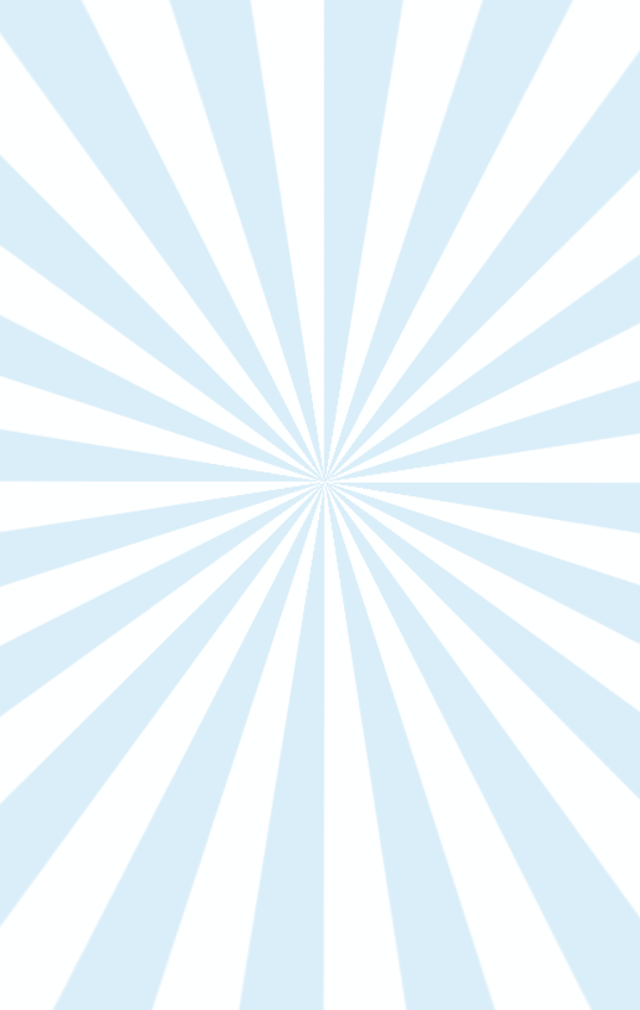
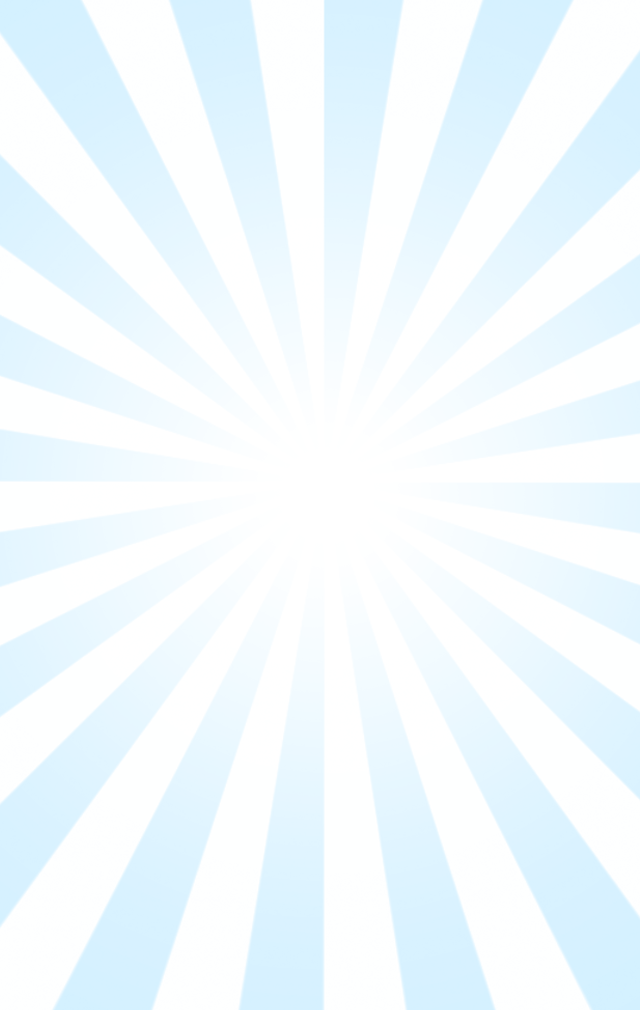
new layout
1. landing page remove clock
2. update text images to each face
3. product
4. finally bg

Changed region(s): [[0.1875, 0.2762, 0.8438, 0.7059]]

diff --git a/pagesnew/js/lip.js b/pagesnew/js/lip.js
@@ -1,9 +1,9 @@
 	_WXShare('http://10.158.204.160:8080/mobilePic/pages/images/face01-4.gif', '100', '100', '我的唇萌表情？', '我制作了专属的唇萌表情，快来围观么么哒~', '10.158.204.160:8080/mobilePic/pages/lip.html');
 	
 	var is_IOS = false, is_ANDROID = false;
-	var text = {'face1':{'text1':'原来这就是传说中的 <span class="font-big">”白素“ 唇！</span><br/>泛白黯淡，谁想要这么又白又素！','text2':'整日涂唇腾不开手，<br/>打不开伞遇不见爱。','text3':'做回官人的娘子，<br/>这酸爽让人不敢相信！'},
-				'face2':{'text1':'原来这就是传说中的 <span class="font-big">”翘皮“ 唇！</span><br/>让我看起来一点都不俏皮！','text2':'涂了又干，干了又涂，<br/>根本就停不下来','text3':'就是如此美丽不覊，<br/>性感得停不下来。'},
-				'face3':{'text1':'原来这就是传说中的 <span class="font-big">”贫壤“ 唇！</span><br/>干燥缺水多裂纹，未免太贫了点儿！','text2':'管不好嘴迈不开腿，<br/>康庄大道找不着北。','text3':'天天歌颂顿舞，<br/>这才是我要的幸福。'}
+	var text = {'face1':{'text1':'原来这就是传说中的 <span class="font-big">“白素”唇！</span><br/>泛白黯淡，谁想要这么又白又素！','text2':'整日涂唇腾不开手，<br/>打不开伞遇不见爱。','text3':'做回官人的娘子，<br/>这酸爽让人不敢相信！'},
+				'face2':{'text1':'原来这就是传说中的 <span class="font-big">“翘皮”唇！</span><br/>让我看起来一点都不俏皮！','text2':'涂了又干，干了又涂，<br/>根本就停不下来','text3':'就是如此美丽不羁，<br/>性感得停不下来。'},
+				'face3':{'text1':'原来这就是传说中的 <span class="font-big">“贫壤”唇！</span><br/>干燥缺水多裂纹，未免太贫了点儿！','text2':'管不好嘴迈不开腿，<br/>康庄大道找不着北。','text3':'天天歌顿顿舞，<br/>这才是我要的幸福。'}
 				};
 	if((navigator.userAgent.match(/iPhone/i)) || (navigator.userAgent.match(/iPod/i))) {
 	　　is_IOS = true;
@@ -46,8 +46,8 @@
         		$('.mainbody, #imgfixed, .page').height(MAX_HEIGHT);
         		$('#swipetoproduct').css('bottom', MAX_HEIGHT * 220/504 - MAX_HEIGHT + 'px');
         		$('.facegif').css('margin-top', (MAX_HEIGHT - 300*MAX_HEIGHT/504)/2 + 'px');
-        		if(640/MAX_WIDTH > 1008/MAX_HEIGHT){ 
-        		//if(MAX_WIDTH < MAX_HEIGHT){ 
+        		//if(640/MAX_WIDTH > 1008/MAX_HEIGHT){ 
+        		if(MAX_HEIGHT > 504){ 
         			//$('.mainbody, .page, #imgfixed').width(MAX_WIDTH)
         			//var imgH = Math.floor(MAX_WIDTH*504/320)
         			//$('.body').width(MAX_WIDTH)
@@ -171,7 +171,7 @@
         			//$facecanvas.css('transform','translate3d('$facecanvas')')
         			//$('#face-wrapper').css({'transform':'scale(0.5,0.5)','margin-top':'30px'});
 
-        			var hammerProduct = Hammer(document.getElementById('swipetoproduct')),
+        			var hammerProduct = Hammer(document.getElementById('swipeguide')),
         				_firstPan = true;
         				console.log(_firstPan);
 		        		hammerProduct.get('pan').set({ direction: Hammer.DIRECTION_VERTICAL });
@@ -184,10 +184,12 @@
 		        				$('#productText').fadeIn(1300).delay(2000).fadeOut(500);
 		        				setTimeout(function(){		        					
 		        					$('.mainbody').removeClass('bg2');
-		        				},300)		        				
-		        				$('#swipetoproduct').css({'bottom':0}).delay(3000).fadeOut(500,function(){
+		        				},300)		
+		        				$('#swipeguide').fadeOut(100);        				
+		        				$('#swipetoproduct').fadeIn(50).css({'bottom':0}).delay(3000).fadeOut(500,function(){
 		        					$('#faceGif2, #finalImgs, #btnbox-final,#finalTextDownload').removeClass('hide');		        					
-		        					$('#essence,#face-text').addClass('hide').removeAttr('style')
+		        					$('#essence,#face-text').addClass('hide').removeAttr('style');
+		        					$('#swipeguide').removeAttr('style')
 		        				});
 		        				_firstPan = false;
 		        			}
@@ -273,9 +275,10 @@
 					if( _n < 4 ){
 						$('#mask').attr('src','images/lip-0' + _n + '.gif');
 						$('#face_type').val(_n);
-						$('#face-text').html(text['face'+_n].text2);
-						$('#engageText').html(text['face'+_n].text1);
-						$('#finalText').html(text['face'+_n].text3);
+						//$('#face-text').html(text['face'+_n].text2);
+						$('#engageText').attr('src','images/004-0'+_n+'.png');
+						$('#face-text').attr('src','images/005-0'+_n+'.png');
+						$('#finalText').attr('src','images/007-0'+_n+'.png');
 						//console.log(text['face'+_n].text2)
 					}
 

diff --git a/pagesnew/lip.html b/pagesnew/lip.html
@@ -23,7 +23,7 @@
                 <div id="finalImgs" class="hide">
                     <img src="images/final-bg.png" width="100%" class="absolute absimgs" id="" />
                     <img src="images/final-slogan.gif" width="100%" class="absolute" id="finalSlogan" />
-                    <div class="absolute" id="finalText">就是如此美丽不覊，<br/>性感得停不下来。</div>
+                    <img src="images/007-02.png" width="100%" class="absolute absimgs" id="finalText" />
                 </div>
         		<img src="images/logo.png" width="100%" class="absolute" id="logo" />
             </div>
@@ -49,13 +49,9 @@
                     <canvas id="canvasFace" width="" height="" style="display:none"></canvas>
 			    	<canvas id="backcanvas" ></canvas>
 			    </div>
-                <!--
-                <img src="images/engage-text-new.png" width="100%" class="absolute absimgs hide" id="engageText" />
-            -->
-                <div id="engageText">
-                    原来这就是传说中的 <span class="font-big">”翘皮“ 唇！</span><br/>
-                    让我看起来一点都不俏皮！
-                </div>
+                
+                <img src="images/004-02.png" width="100%" class="absolute absimgs hide" id="engageText" />
+            
                 <img src="images/faceGuide.png" width="100%" class="absolute guidelayer hide" id="faceGuide" />
                 <div id="face-controller">
                     <div id="changeface" class="relative">
@@ -83,20 +79,14 @@
                     </div>                   
                 </div>                
 			    <div id="engageNext" class="hide absolute">
-                    <div id="chosenFaceWrapper">
-                        <!--
-                        <img src="images/face01-1.gif" width="100%" id="faceGif1" class="absolute absimgs" />
-                        <img src="images/face01-2.gif" width="100%" id="faceGif2" class="absolute hide absimgs" />
-                    -->
+                    <img src="images/005-02.png" width="100%" id="face-text" class="absolute absimgs hide " />
+                    <div id="chosenFaceWrapper">                        
                         <img src="images/loading.gif" width="100%" id="faceGif1" class="facegif " />
                         <img src="images/loading.gif" width="100%" id="faceGif2" class="facegif hide " />
-                        <div id="face-text" class="hide">
-                            涂了又干，干了又涂，<br/>根本停不下来……
-                        </div>
                     </div>
                     <img src="images/swipeguide.png" width="100%" id="swipeguide" class="absolute product-imgs" />
                     <img src="images/product-text.png" width="100%" id="productText" class="absolute absimgs product-imgs hide" />
-                    <img src="images/product.png" width="100%" id="swipetoproduct" class="absolute absimgs product-imgs" />
+                    <img src="images/product.png" width="100%" id="swipetoproduct" class="absolute absimgs product-imgs hide" />
                     <img src="images/essence.png" width="100%" id="essence" class="absolute product-imgs" />
                     <a id="finalTextDownload" href="" class="hide absolute"><img src="images/final-text.png" border="0" width="100%"  /></a>
                 </div>

diff --git a/pagesnew/css/lip.css b/pagesnew/css/lip.css
@@ -4,7 +4,7 @@
 
 .body{margin: auto; position: relative; overflow: hidden;}
 .mainbody{background:#fff ;}
-.mainbody.bg2{ background-color: #192239}
+.mainbody.bg2{ background:#fff url(../images/bg1.png) center center no-repeat;}
 
 #topNav{font-size: 14px; position: absolute; z-index: 10; right: 10px;top: 10px; }
 	#topNav a{color: #002c7d; text-decoration: none; display: inline-block; margin-left: 10px}
@@ -40,22 +40,19 @@
 		#logo{left: 5px; top: 15px; z-index: 10; position: absolute; }
 		#imgfixed{width: 100%; height: 100%}
 		#swipeguide{bottom: 0}
-		#swipetoproduct{bottom: -280px; transition: all 0.3s ease 0;}
+		#swipetoproduct{bottom: -300px; transition: all 0.3s ease 0;}
 		#essence{transition: all 1s ease 0; top: -500px}
 		/*#faceGif1, #faceGif2{top:0;}*/
 		#chosenFaceWrapper{text-align: center; width: 240px; margin: auto;}
 			.facegif{ margin:22% auto 0; position: relative; z-index: 2;}
 			#faceGif2{margin-top: 40%}
-			#face-text{font-size: 14px; color: #fff; line-height: 20px; margin-top: -5px}
 		#faceGuide,#shareguide{z-index: 1000}
 		#finalSlogan{top:30px;}
-		#finalText{width: 100%;bottom: 120px;font-size: 30px;font-style: italic;text-align: center;transform: rotate(-7deg);color: #2d8bdb; font-weight: bold;}
 		#finalTextDownload{bottom: 44px}
 
 	#mask{/*bottom: -148px;*/ left: 0; z-index: 5; top:0;}
 	#backcanvas{z-index: 2; -webkit-transform-origin:50% 50%;}
-	#engageText{z-index: 6; text-align: center; color:#002c7d; font-size: 14px; line-height: 23px; position: absolute; bottom: 125px; width: 100%}
-		.font-big{font-size: 18px}
+	#engageText{z-index: 6; }
 
 	#face-wrapper{overflow: hidden; }
 	#face-controller{position: fixed; bottom: 0; background:rgba(255,255,255,.7);  z-index: 10; width: 100%}
